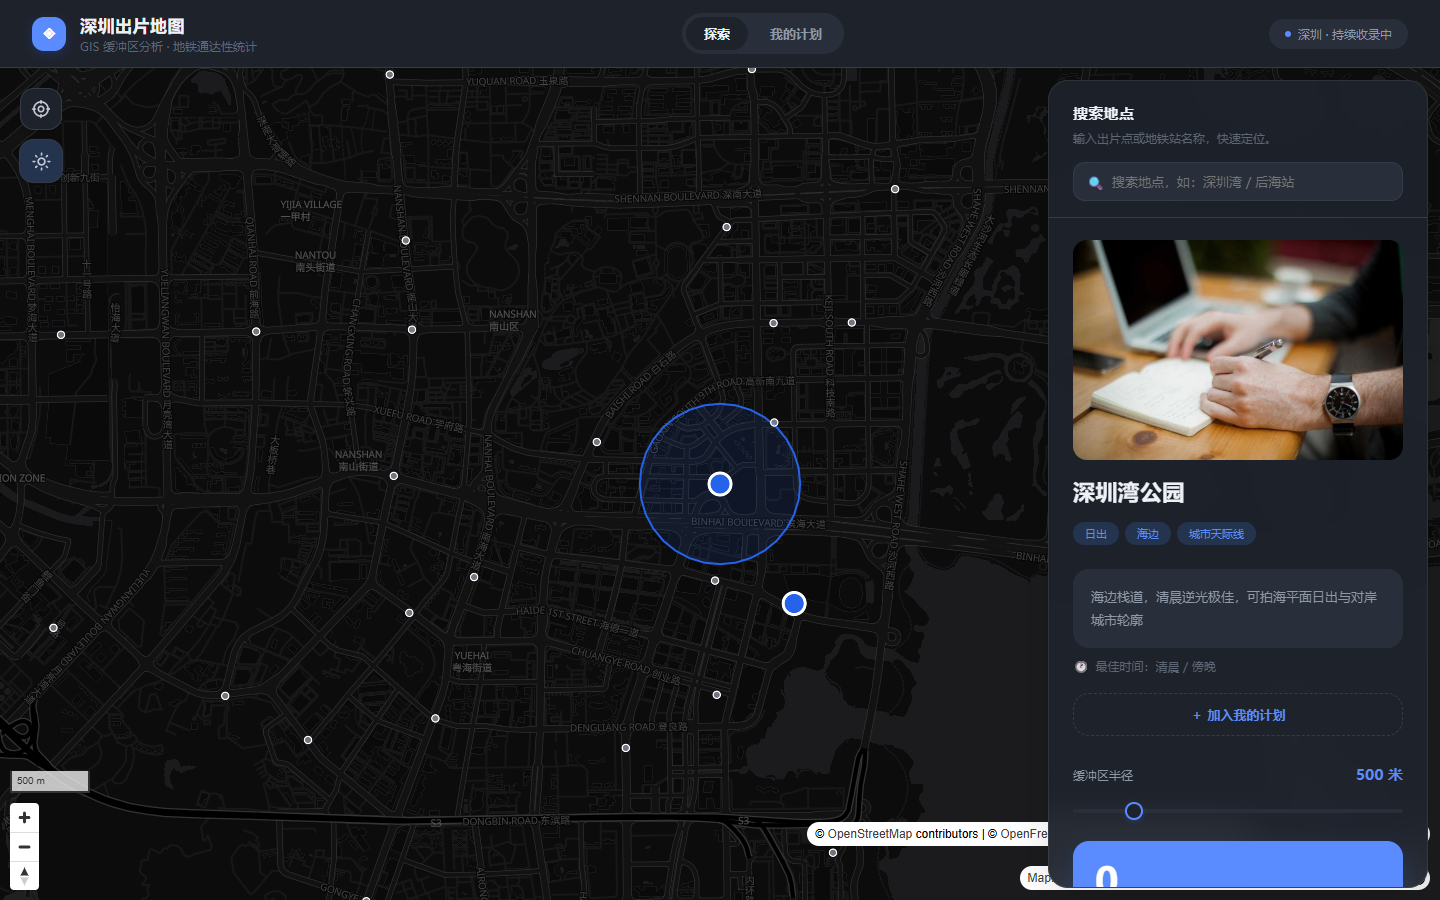
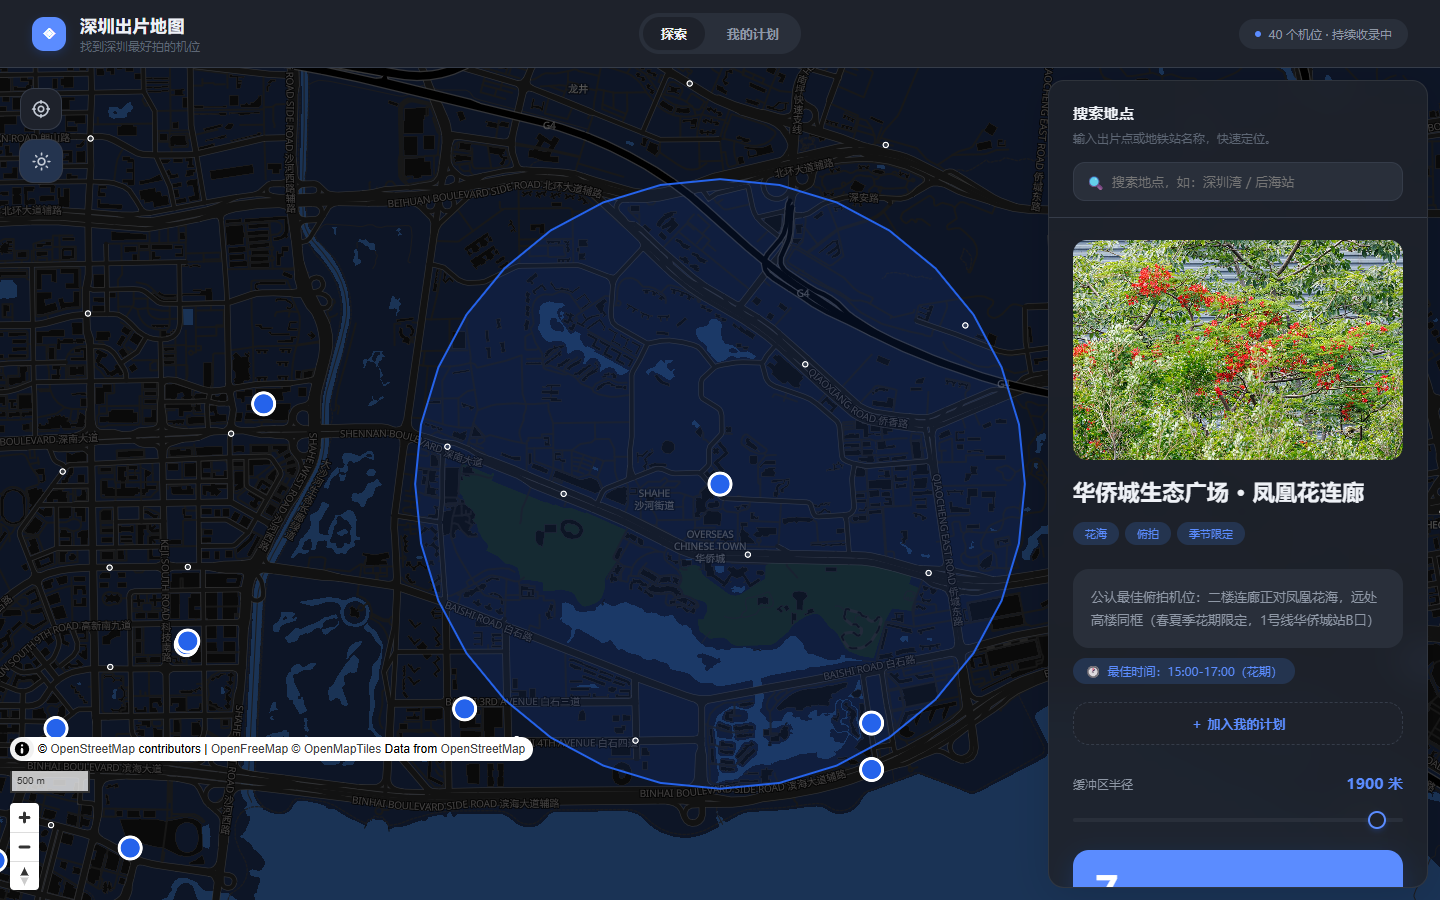
ui: PM 评审 8 项优化落地
- 副标题去技术化：GIS 缓冲区分析 → 找到深圳最好拍的机位
- 顶栏改为实时机位数：40 个机位 · 持续收录中
- 图例默认折叠为小条，点击展开，给地图让出右下角
- 出片点悬停显示名称 tooltip，深色模式弹窗同步适配
- 深色下地铁站弱化（透明度 0.7→0.35，半径 3.5→2.5），不再喧宾夺主
- 最佳拍摄时间改为强调色 chip，摄影师决策权重最高的信息提级
- 圆角体系统一：卡片 16 / 控件 12
- 首次访问轻引导（8s 或点击消失，localStorage 记住已读）
- 顺带修复：换主题重载数据时先 removeLayer 再 removeSource，
  消除 Source cannot be removed 控制台报错
- README 浅色/深色截图更新为当前 UI

diff --git a/index.html b/index.html
@@ -57,6 +57,13 @@
     body.dark .map-ctrl-btn { color: var(--text); }
     body.dark .me-marker { border-color: #1e222b; }
 
+    /* 深色模式下的地图弹窗（悬停 tooltip / 地铁站弹窗） */
+    body.dark .maplibregl-popup-content { background: var(--surface-2); color: var(--text-strong); box-shadow: 0 8px 30px rgba(0,0,0,0.4); }
+    body.dark .maplibregl-popup-anchor-bottom .maplibregl-popup-tip { border-top-color: var(--surface-2); }
+    body.dark .maplibregl-popup-anchor-top .maplibregl-popup-tip { border-bottom-color: var(--surface-2); }
+    body.dark .maplibregl-popup-anchor-left .maplibregl-popup-tip { border-right-color: var(--surface-2); }
+    body.dark .maplibregl-popup-anchor-right .maplibregl-popup-tip { border-left-color: var(--surface-2); }
+
     * { margin: 0; padding: 0; box-sizing: border-box; }
     html, body {
       height: 100%;
@@ -158,7 +165,25 @@
       font-size: 12px;
       color: var(--text-muted);
     }
-    .legend .legend-title { font-weight: 700; color: var(--text-strong); margin-bottom: 10px; font-size: 12px; letter-spacing: 1px; }
+    /* 首次访问引导提示 */
+    .hint-toast {
+      position: absolute; left: 50%; bottom: 88px;
+      transform: translateX(-50%) translateY(10px);
+      background: var(--text-strong); color: var(--bg);
+      font-size: 12.5px; padding: 10px 18px; border-radius: 999px;
+      box-shadow: var(--shadow-md); z-index: 7;
+      opacity: 0; pointer-events: none; white-space: nowrap; cursor: pointer;
+      transition: opacity 0.45s ease, transform 0.45s ease;
+    }
+    .hint-toast.show { opacity: 0.96; transform: translateX(-50%) translateY(0); pointer-events: auto; }
+
+    .legend .legend-title { font-weight: 700; color: var(--text-strong); font-size: 12px; letter-spacing: 1px; }
+    .legend .legend-head { display: flex; align-items: center; justify-content: space-between; gap: 12px; cursor: pointer; user-select: none; }
+    .legend .legend-chevron { transition: transform 0.25s ease; color: var(--text-faint); flex-shrink: 0; }
+    .legend:not(.collapsed) .legend-chevron { transform: rotate(180deg); }
+    .legend.collapsed { padding: 10px 16px; }
+    .legend.collapsed .legend-body { display: none; }
+    .legend:not(.collapsed) .legend-body { margin-top: 10px; }
     .legend .row { display: flex; align-items: center; gap: 9px; margin: 6px 0; }
     .legend .swatch { width: 10px; height: 10px; border-radius: 50%; flex-shrink: 0; }
     .legend .swatch.spot { background: var(--accent); box-shadow: 0 0 0 2px rgba(37,99,235,0.18); }
@@ -176,7 +201,7 @@
       backdrop-filter: blur(18px);
       -webkit-backdrop-filter: blur(18px);
       border: 1px solid rgba(255, 255, 255, 0.6);
-      border-radius: 20px;
+      border-radius: 16px; /* 圆角收敛：卡片统一 16，控件统一 12 */
       box-shadow: 0 8px 40px rgba(0, 0, 0, 0.12);
       display: flex;
       flex-direction: column;
@@ -295,7 +320,8 @@
     }
     .card .best-time {
       display: inline-flex; align-items: center; gap: 6px;
-      font-size: 12px; color: var(--text-faint); margin-top: 10px; font-weight: 400;
+      font-size: 12px; color: var(--accent); margin-top: 10px; font-weight: 500;
+      background: var(--accent-soft); padding: 5px 12px; border-radius: 999px;
     }
     /* 机位参考：数据溯源链接，视觉降级处理（小字号淡色，置于卡片底部） */
     .card .refs {
@@ -573,25 +599,33 @@
       <div class="logo">◈</div>
       <div>
         <div class="title">深圳出片地图</div>
-        <div class="subtitle">GIS 缓冲区分析 · 地铁通达性统计</div>
+        <div class="subtitle">找到深圳最好拍的机位</div>
       </div>
     </div>
     <div class="top-tabs">
       <button class="top-tab active" id="top-tab-explore" data-tab="explore">探索</button>
       <button class="top-tab" id="top-tab-plan" data-tab="plan">我的计划<span class="tab-count" id="plan-count">0</span></button>
     </div>
-    <div class="header-meta"><span class="dot"></span>深圳 · 持续收录中</div>
+    <div class="header-meta"><span class="dot"></span><span id="spot-total">深圳 · 持续收录中</span></div>
   </header>
 
   <div id="wrap">
     <div id="map">
-      <div class="legend">
-        <div class="legend-title">图 例</div>
-        <div class="row"><span class="swatch spot"></span>出片点</div>
-        <div class="row"><span class="swatch metro"></span>地铁站</div>
-        <div class="row"><span class="swatch buffer"></span>缓冲区（<span id="legend-radius">500</span>m）</div>
-        <div class="row"><span class="swatch me"></span>我的位置</div>
+      <div class="legend collapsed" id="legend">
+        <div class="legend-head" id="legend-head" title="展开 / 收起图例">
+          <span class="legend-title">图 例</span>
+          <svg class="legend-chevron" viewBox="0 0 24 24" width="13" height="13" fill="none" stroke="currentColor" stroke-width="2.5" stroke-linecap="round" stroke-linejoin="round"><path d="M6 9l6 6 6-6"/></svg>
+        </div>
+        <div class="legend-body">
+          <div class="row"><span class="swatch spot"></span>出片点</div>
+          <div class="row"><span class="swatch metro"></span>地铁站</div>
+          <div class="row"><span class="swatch buffer"></span>缓冲区（<span id="legend-radius">500</span>m）</div>
+          <div class="row"><span class="swatch me"></span>我的位置</div>
+        </div>
       </div>
+
+      <!-- 首次访问引导提示（点击或 8 秒后消失，localStorage 记住已读） -->
+      <div class="hint-toast" id="hint-toast">💡 点击蓝色机位点，查看机位详情与最佳拍摄时间</div>
 
       <!-- 左侧控件组：定位 + 夜间模式 -->
       <div class="map-controls-left">
@@ -744,6 +778,9 @@
       spotsData = spots.spots;
       metroData = metro.stations;
 
+      // 顶栏实时机位数量（具体数字 + 持续收录，比形容词有说服力）
+      document.getElementById('spot-total').textContent = `${spotsData.length} 个机位 · 持续收录中`;
+
       const spotFeatures = spotsData.map(s => ({
         type: 'Feature',
         geometry: { type: 'Point', coordinates: [s.lng, s.lat] },
@@ -758,7 +795,11 @@
       }));
       metroFC = turf.featureCollection(metroFeatures);
 
-      // 幂等：先移除可能存在的旧 source（夜间模式切换后重载时防报错）
+      // 幂等：先移除可能存在的旧图层和 source（夜间模式切换后重载时防报错；
+      // 必须先 removeLayer 再 removeSource，否则报 "Source cannot be removed while layer is using it"）
+      ['spots-layer', 'metro-layer', 'buffer-fill', 'buffer-line', 'net-line'].forEach(id => {
+        if (map.getLayer(id)) map.removeLayer(id);
+      });
       ['spots', 'metro', 'buffer', 'net'].forEach(id => {
         if (map.getSource(id)) map.removeSource(id);
       });
@@ -816,8 +857,23 @@
       map.on('click', 'metro-layer', onMetroClick);
     }
 
-    function onSpotEnter() { map.getCanvas().style.cursor = 'pointer'; }
-    function onSpotLeave() { map.getCanvas().style.cursor = ''; }
+    // 悬停出片点：轻量 tooltip 预览机位名称（探索时不必逐个点开）
+    const spotHoverTip = new maplibregl.Popup({
+      closeButton: false, closeOnClick: false, offset: 18,
+      className: 'spot-hover-tip', maxWidth: '240px'
+    });
+    function onSpotEnter(e) {
+      map.getCanvas().style.cursor = 'pointer';
+      const f = e.features && e.features[0];
+      if (!f) return;
+      spotHoverTip.setLngLat(f.geometry.coordinates)
+        .setHTML(`<div class="p-name">${f.properties.name}</div>`)
+        .addTo(map);
+    }
+    function onSpotLeave() {
+      map.getCanvas().style.cursor = '';
+      spotHoverTip.remove();
+    }
     function onSpotClick(e) {
       const feat = e.features[0];
       const [lng, lat] = feat.geometry.coordinates;
@@ -1073,6 +1129,7 @@
         finished = true;
         applyDarkTweaks();
         await loadData();
+        applyMetroTone();
         updateBuffer();
         renderNetwork();
       };
@@ -1333,9 +1390,45 @@
 
     document.getElementById('net-toggle').addEventListener('change', renderNetwork);
 
+    // 图例折叠 / 展开（默认收起，把右下角还给地图）
+    document.getElementById('legend-head').addEventListener('click', () => {
+      document.getElementById('legend').classList.toggle('collapsed');
+    });
+
+    // 地铁站视觉权重按主题调节：暗色下降低存在感，避免白点喧宾夺主
+    function applyMetroTone() {
+      if (!map.getLayer('metro-layer')) return;
+      if (isDark) {
+        map.setPaintProperty('metro-layer', 'circle-color', '#7c8698');
+        map.setPaintProperty('metro-layer', 'circle-opacity', 0.35);
+        map.setPaintProperty('metro-layer', 'circle-radius', 2.5);
+      } else {
+        map.setPaintProperty('metro-layer', 'circle-color', '#9ca3af');
+        map.setPaintProperty('metro-layer', 'circle-opacity', 0.7);
+        map.setPaintProperty('metro-layer', 'circle-radius', 3.5);
+      }
+    }
+
+    // 首次访问引导：轻提示，点击或 8 秒后消失，localStorage 记住已读
+    (function initHint() {
+      const KEY = 'spotHintSeen';
+      const el = document.getElementById('hint-toast');
+      let seen = false;
+      try { seen = !!localStorage.getItem(KEY); } catch (e) {}
+      if (seen) return;
+      setTimeout(() => el.classList.add('show'), 1200);
+      const dismiss = () => {
+        el.classList.remove('show');
+        try { localStorage.setItem(KEY, '1'); } catch (e) {}
+      };
+      el.addEventListener('click', dismiss);
+      setTimeout(dismiss, 8000);
+    })();
+
     // 等底图样式加载完成后再加图层，避免时序报错
-    map.on('load', () => {
-      loadData();
+    map.on('load', async () => {
+      await loadData();
+      applyMetroTone();
       loadPlan();
       renderPlan();
       updatePlanBtn();
